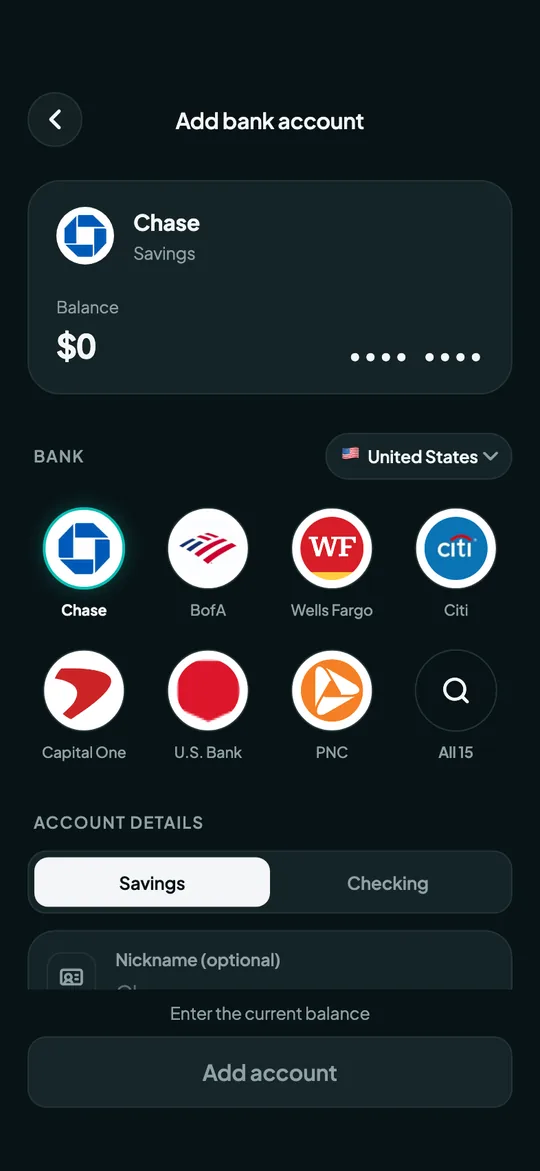
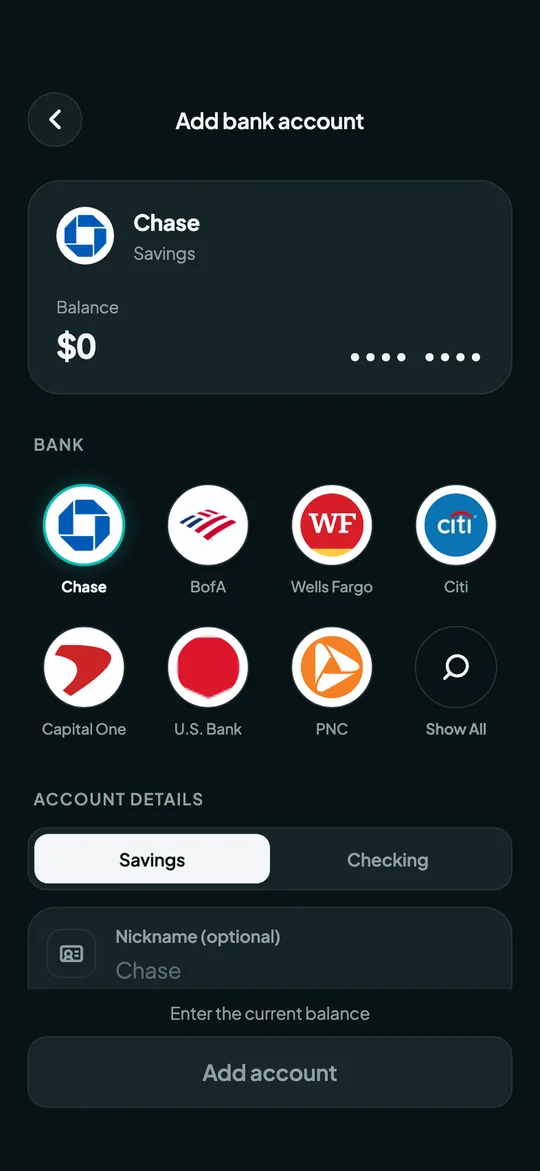
Refresh app screens for release 2.1.6
Re-rendered from the app's release/2.1.6 (20a718e): plan status in the
Profile card, bank picker without the country dropdown. The profile caption
now describes the Pro trial instead of a question count.

diff --git a/index.html b/index.html
@@ -455,10 +455,10 @@
     </figure>
     <figure class="shot" data-group="ai">
       <div class="shot-frame"><div class="shot-screen">
-        <img data-shot="profile-ai" src="/assets/shots/in/profile-ai-dark.webp" alt="Profile with Overvue AI switched on" width="540" height="1171" loading="lazy" decoding="async">
+        <img data-shot="profile-ai" src="/assets/shots/in/profile-ai-dark.webp" alt="Profile with Overvue AI switched on and the Overvue Pro free trial" width="540" height="1171" loading="lazy" decoding="async">
         <div class="shot-chrome" aria-hidden="true"><span>9:41</span><span class="sb-icons"><svg><use href="#i-signal"/></svg><svg><use href="#i-wifi"/></svg><svg class="sb-batt"><use href="#i-battery"/></svg></span></div>
       </div></div>
-      <figcaption><b>Your allowance</b><span>AI switch and questions left, in your profile.</span></figcaption>
+      <figcaption><b>Your plan</b><span>The AI switch and your Pro trial, in your profile.</span></figcaption>
     </figure>
     <figure class="shot" data-group="plan">
       <div class="shot-frame"><div class="shot-screen">
